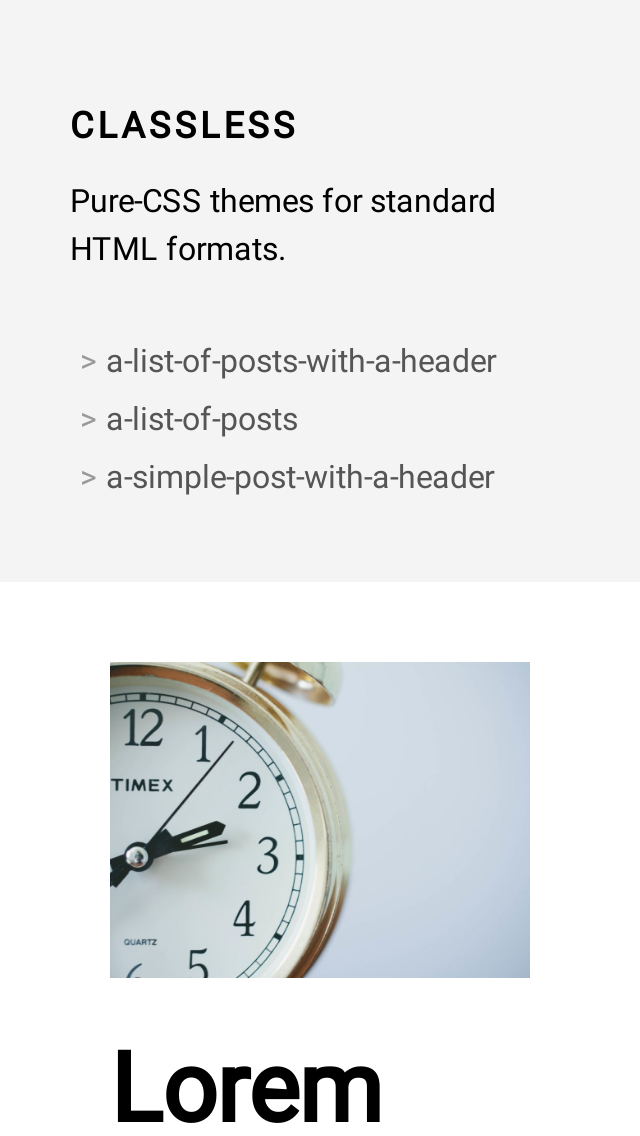
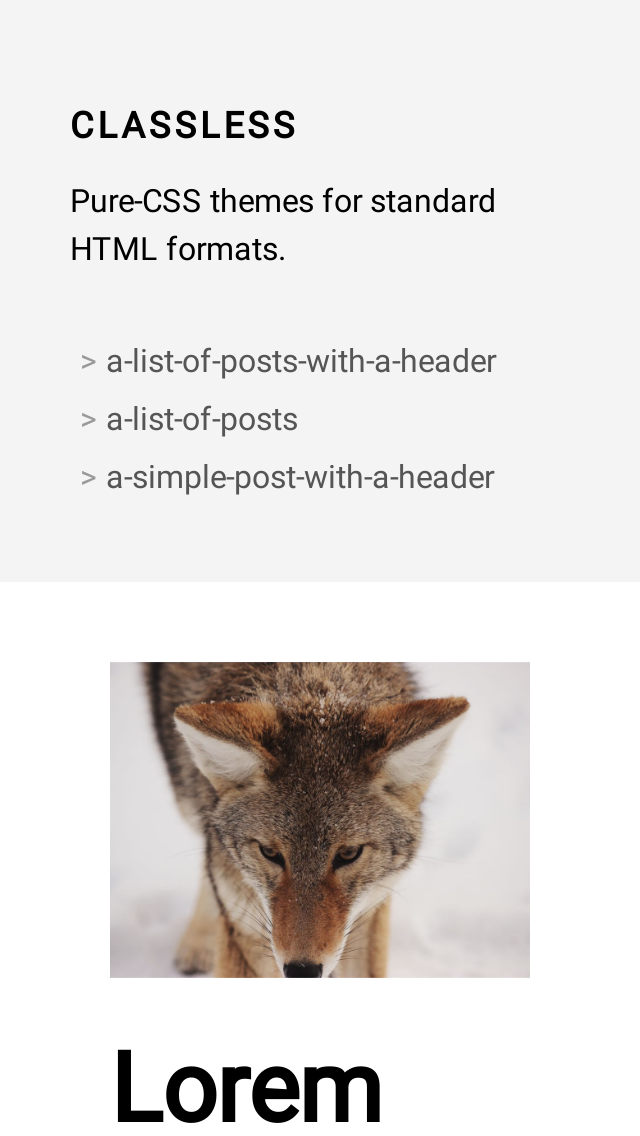
fix creative-portfolio header images.

Changed region(s): [[0.1562, 0.5854, 0.8438, 0.8627]]

diff --git a/themes/creative-portfolio/src/theme.css b/themes/creative-portfolio/src/theme.css
@@ -106,8 +106,6 @@ article header aside {
         text-transform: uppercase;
       }
 
-body > main {}
-
 body > header {
   padding: 40px 35px 0;
 }
@@ -124,6 +122,11 @@ body > header {
         color: #000;
         border-bottom: dotted 1px #ef5285;
       }
+  body > header > img,
+  body > header > a,
+  body > header > a > img {
+    width: 100%;
+  }
 
 body > nav a,
 body > aside a,
@@ -165,7 +168,8 @@ body > nav {
         }
 
 body > main {
-  height: 100vh;
+  min-height: 100vh;
+  height: 100%;
 }
   main > section {
     height: 90%;
@@ -262,6 +266,7 @@ body > main {
     color: #999;
     padding: 40px 55px 0;
     min-height: 100vh;
+    height: 100%;
   }
     main > article header {
       width: 66.67%;

diff --git a/themes/creative-portfolio/theme.css b/themes/creative-portfolio/theme.css
@@ -106,8 +106,6 @@ article header aside {
         text-transform: uppercase;
       }
 
-body > main {}
-
 body > header {
   padding: 40px 35px 0;
 }
@@ -124,6 +122,11 @@ body > header {
         color: #000;
         border-bottom: dotted 1px #ef5285;
       }
+  body > header > img,
+  body > header > a,
+  body > header > a > img {
+    width: 100%;
+  }
 
 body > nav a,
 body > aside a,
@@ -165,7 +168,8 @@ body > nav {
         }
 
 body > main {
-  height: 100vh;
+  min-height: 100vh;
+  height: 100%;
 }
   main > section {
     height: 90%;
@@ -262,6 +266,7 @@ body > main {
     color: #999;
     padding: 40px 55px 0;
     min-height: 100vh;
+    height: 100%;
   }
     main > article header {
       width: 66.67%;
